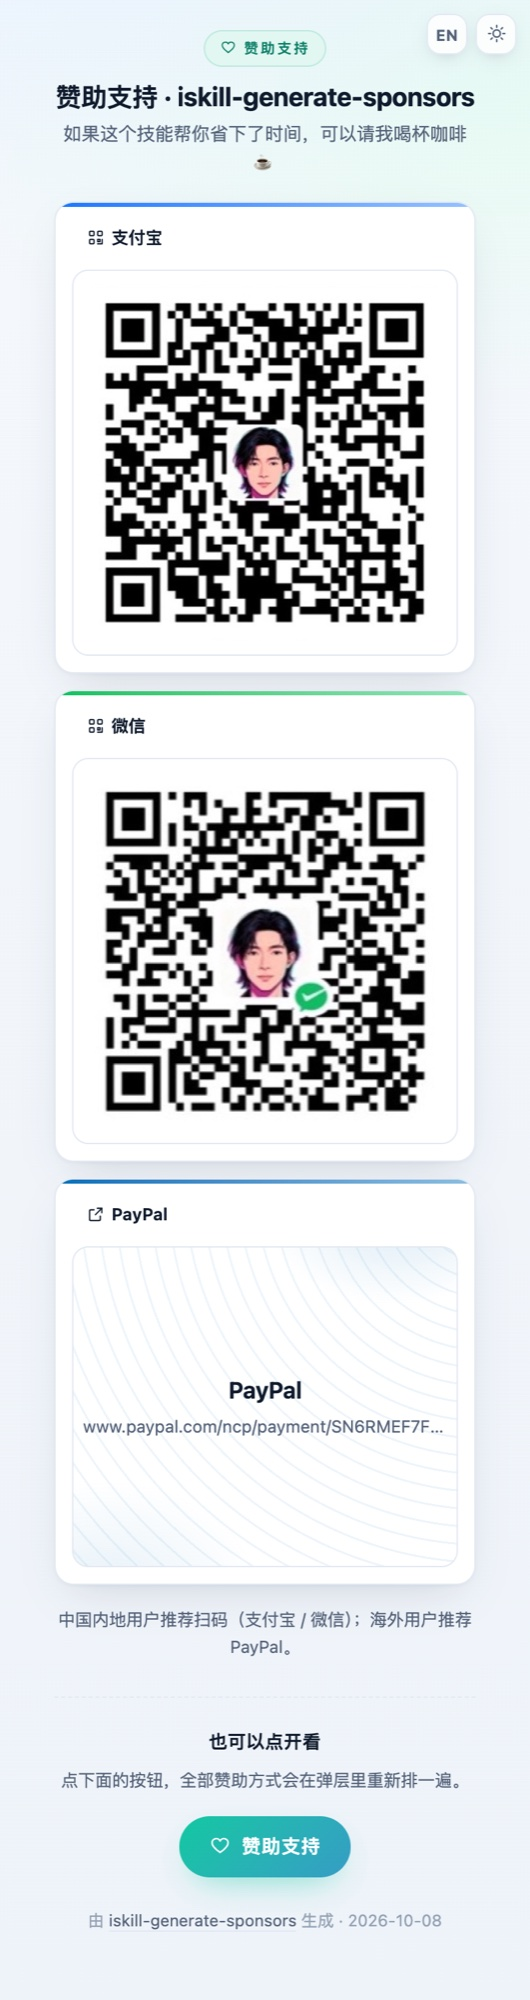
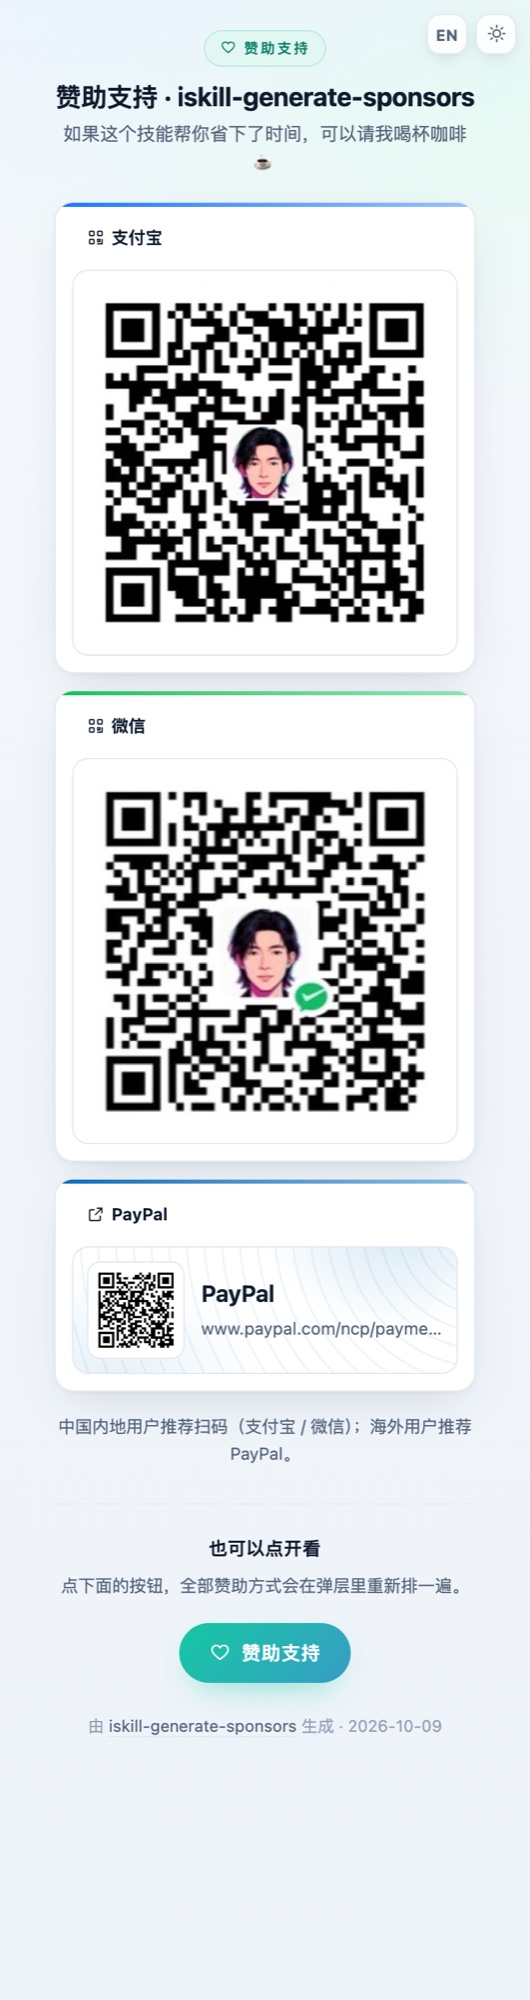
deploy: promo-page @ 2026-10-09 02:43

Changed region(s): [[0.1208, 0.62, 0.8755, 0.961], [0.8151, 0.868, 0.8453, 0.899], [0.1208, 0.868, 0.1509, 0.899]]

diff --git a/sponsors.html b/sponsors.html
@@ -156,8 +156,8 @@ body{
 .link:hover{transform:translateY(-2px);box-shadow:var(--shadow-hi)}
 .link:focus-visible{outline:2px solid var(--accent);outline-offset:2px}
 .link-body{
-  flex:1;min-height:150px;
-  display:flex;flex-direction:column;align-items:center;justify-content:center;gap:3px;
+  flex:1;min-height:0;
+  display:flex;align-items:center;gap:10px;
   /* 纯 CSS 生成式底纹：角落两团品牌色柔光 + 同心细环（guilloché 质感），随渠道 accent 变色 */
   background:
     radial-gradient(140px 100px at 84% -12%, color-mix(in srgb, var(--accent) 15%, transparent), transparent 70%),
@@ -167,10 +167,16 @@ body{
       transparent 1.5px 13px),
     var(--qr-bg);
   border:1px solid var(--qr-line);border-radius:10px;
-  padding:7px;text-align:center;
+  padding:8px;text-align:left;
   /* 容器恒为白底（与码面一致），文字固定深色，不随主题翻转 */
   color:#0f1b2d;
 }
+/* 内嵌二维码 tile：白底独立描边，直接可扫；整卡是 <a>，点它即新窗口跳转 */
+.link-qr{
+  flex:none;width:56px;height:56px;padding:3px;
+  background:#fff;border:1px solid var(--qr-line);border-radius:8px;
+}
+.link-text{flex:1;min-width:0;display:flex;flex-direction:column;gap:2px;justify-content:center}
 .link-name{font-weight:650;font-size:15px}
 .link-sub{font-size:11.5px;color:#55637a;max-width:100%;overflow:hidden;text-overflow:ellipsis;white-space:nowrap}
 .empty{flex-basis:100%;color:var(--ink2);text-align:center}
@@ -247,7 +253,8 @@ body{
   .qr{padding:10px;border-radius:12px}
   .qr img{border-radius:7px}
   .link{padding:12px;border-radius:14px;gap:9px}
-  .link-body{min-height:0;aspect-ratio:6/5;border-radius:12px}
+  .link-body{border-radius:12px;padding:10px;gap:12px}
+  .link-qr{width:72px;height:72px;border-radius:10px;padding:4px}
   .link-name{font-size:17px}
   .link-sub{font-size:12.5px}
   .lightbox{padding:20px}
@@ -305,7 +312,8 @@ body{
   .pop-card .chip svg{width:13px;height:13px}
   .pop-card .qr{padding:10px;border-radius:12px}
   .pop-card .qr img{border-radius:7px}
-  .pop-card .link-body{min-height:0;aspect-ratio:6/5;border-radius:12px}
+  .pop-card .link-body{border-radius:12px;padding:10px;gap:12px}
+  .pop-card .link-qr{width:72px;height:72px;border-radius:10px;padding:4px}
   .pop-card .link-name{font-size:17px}
   .pop-card .link-sub{font-size:12.5px}
 }
@@ -356,8 +364,11 @@ body{
             <span class="chip"><svg viewBox="0 0 24 24" fill="none" stroke="currentColor" stroke-width="1.8" stroke-linecap="round" stroke-linejoin="round"><path d="M14 4h6v6"/><path d="M20 4l-8.5 8.5"/><path d="M18 14.5V19a1.5 1.5 0 0 1-1.5 1.5H5A1.5 1.5 0 0 1 3.5 19V7.5A1.5 1.5 0 0 1 5 6h4.5"/></svg><span>PayPal</span></span>
           </div>
           <span class="link-body">
-            <span class="link-name">PayPal</span>
-            <span class="link-sub">www.paypal.com/ncp/payment/SN6RMEF7FNKU4</span>
[1 lines of base64/hex data omitted]
+            <span class="link-text">
+              <span class="link-name">PayPal</span>
+              <span class="link-sub">www.paypal.com/ncp/payment/SN6RMEF7FNKU4</span>
+            </span>
           </span>
         </a>
   </section>
@@ -375,7 +386,7 @@ body{
     </button>
   </section>
 
-  <footer class="foot" data-slot="foot">由 <a href="https://github.com/aispin/iskill-generate-sponsors" target="_blank" rel="noopener noreferrer">iskill-generate-sponsors</a> 生成 · 2026-10-08</footer>
+  <footer class="foot" data-slot="foot">由 <a href="https://github.com/aispin/iskill-generate-sponsors" target="_blank" rel="noopener noreferrer">iskill-generate-sponsors</a> 生成 · 2026-10-09</footer>
 </main>
 
 <div class="pop" hidden role="dialog" aria-modal="true">
@@ -413,8 +424,11 @@ body{
             <span class="chip"><svg viewBox="0 0 24 24" fill="none" stroke="currentColor" stroke-width="1.8" stroke-linecap="round" stroke-linejoin="round"><path d="M14 4h6v6"/><path d="M20 4l-8.5 8.5"/><path d="M18 14.5V19a1.5 1.5 0 0 1-1.5 1.5H5A1.5 1.5 0 0 1 3.5 19V7.5A1.5 1.5 0 0 1 5 6h4.5"/></svg><span>PayPal</span></span>
           </div>
           <span class="link-body">
-            <span class="link-name">PayPal</span>
-            <span class="link-sub">www.paypal.com/ncp/payment/SN6RMEF7FNKU4</span>
[1 lines of base64/hex data omitted]
+            <span class="link-text">
+              <span class="link-name">PayPal</span>
+              <span class="link-sub">www.paypal.com/ncp/payment/SN6RMEF7FNKU4</span>
+            </span>
           </span>
         </a>
     </section>
@@ -430,7 +444,7 @@ body{
 </div>
 
 <script>
-var SPONSOR = {"defaultLang":"zh","langs":["zh","en"],"title":{"zh":"赞助支持 · iskill-generate-sponsors","en":"Sponsor · iskill-generate-sponsors"},"tagline":{"zh":"如果这个技能帮你省下了时间，可以请我喝杯咖啡 ☕","en":"If this skill saved you some time, you can buy me a coffee ☕"},"note":{"zh":"中国内地用户推荐扫码（支付宝 / 微信）；海外用户推荐 PayPal。","en":"Scan the QR codes if you are in mainland China (Alipay / WeChat); PayPal is easier overseas."},"foot":{"zh":"由 <a href=\"https://github.com/aispin/iskill-generate-sponsors\" target=\"_blank\" rel=\"noopener noreferrer\">iskill-generate-sponsors<\/a> 生成 · 2026-10-08","en":"Generated by <a href=\"https://github.com/aispin/iskill-generate-sponsors\" target=\"_blank\" rel=\"noopener noreferrer\">iskill-generate-sponsors<\/a> · 2026-10-08"},"generatedAt":"2026-10-08","generator":{"name":"iskill-generate-sponsors","url":"https://github.com/aispin/iskill-generate-sponsors"},"ui":{"zh":{"badge":"赞助支持","hint":"点击放大","linksTitle":"其他支持方式","altOf":"{x}收款码","zoomOf":"放大{x}收款码","themeAria":"切换深色 / 浅色","langAria":"切换中文 / English","closeAria":"关闭放大图","popAria":"打开赞助弹窗","popCloseAria":"关闭赞助弹窗","popSecTitle":"也可以点开看","popSecHint":"点下面的按钮，全部赞助方式会在弹层里重新排一遍。","langShort":"EN","empty":"还没有配置外部赞助链接。加一个 <code>--paypal https://paypal.me/你的名字<\/code> 再来一次。"},"en":{"badge":"SPONSOR","hint":"Tap to enlarge","linksTitle":"Other ways to support","altOf":"{x} QR code","zoomOf":"Enlarge the {x} QR code","themeAria":"Toggle dark / light mode","langAria":"Switch between 中文 / English","closeAria":"Close","popAria":"Open sponsor popup","popCloseAria":"Close sponsor popup","popSecTitle":"Prefer a popup?","popSecHint":"Tap the button below to see every option in a focused overlay.","langShort":"中","empty":"No external sponsor links yet. Add one with <code>--paypal https://paypal.me/yourname<\/code>, then re-run."}},"qr":[{"key":"alipay","src":"assets/sponsor/alipay.jpg","accent":"#1677FF","label":{"zh":"支付宝","en":"Alipay"},"tip":{"zh":"打开支付宝「扫一扫」","en":"Scan with Alipay"}},{"key":"wechat","src":"assets/sponsor/wechat.jpg","accent":"#07C160","label":{"zh":"微信","en":"WeChat"},"tip":{"zh":"打开微信「扫一扫」","en":"Scan with WeChat"}}],"links":[{"label":"PayPal","sub":"www.paypal.com/ncp/payment/SN6RMEF7FNKU4","url":"https://www.paypal.com/ncp/payment/SN6RMEF7FNKU4","accent":"#0070BA"}]};
[1 lines of base64/hex data omitted]
 (function () {
   var root = document.documentElement;
   var lb = document.querySelector('.lightbox');

diff --git a/usage.html b/usage.html
@@ -202,7 +202,7 @@ body.wrap-code .view code{white-space:pre-wrap;overflow-wrap:anywhere}
       </button>
     </header>
     <p class="meta">
-      <span data-zh="更新于" data-en="Generated">更新于</span> 2026-10-08 22:04:13
+      <span data-zh="更新于" data-en="Generated">更新于</span> 2026-10-09 02:39:47
       · <span data-zh="图片在" data-en="Images in">图片在</span> <code>.github/sponsor/</code>
       · <span data-zh="公开预览页" data-en="Public page">公开预览页</span> <a href="sponsors.html">sponsors.html</a>
       · <a href="https://github.com/aispin/iskill-generate-sponsors" target="_blank" rel="noopener noreferrer"><span data-zh="GitHub 仓库" data-en="GitHub repo">GitHub 仓库</span> ↗</a>
@@ -396,10 +396,10 @@ export const SPONSOR_DATA = {
     "en": "Scan the QR codes if you are in mainland China (Alipay / WeChat); PayPal is easier overseas."
   },
   "foot": {
-    "zh": "由 &lt;a href=\"https://github.com/aispin/iskill-generate-sponsors\" target=\"_blank\" rel=\"noopener noreferrer\">iskill-generate-sponsors&lt;/a> 生成 · 2026-10-08",
-    "en": "Generated by &lt;a href=\"https://github.com/aispin/iskill-generate-sponsors\" target=\"_blank\" rel=\"noopener noreferrer\">iskill-generate-sponsors&lt;/a> · 2026-10-08"
+    "zh": "由 &lt;a href=\"https://github.com/aispin/iskill-generate-sponsors\" target=\"_blank\" rel=\"noopener noreferrer\">iskill-generate-sponsors&lt;/a> 生成 · 2026-10-09",
+    "en": "Generated by &lt;a href=\"https://github.com/aispin/iskill-generate-sponsors\" target=\"_blank\" rel=\"noopener noreferrer\">iskill-generate-sponsors&lt;/a> · 2026-10-09"
   },
-  "generatedAt": "2026-10-08",
+  "generatedAt": "2026-10-09",
   "generator": {
     "name": "iskill-generate-sponsors",
     "url": "https://github.com/aispin/iskill-generate-sponsors"
@@ -471,7 +471,8 @@ export const SPONSOR_DATA = {
       "label": "PayPal",
       "sub": "www.paypal.com/ncp/payment/SN6RMEF7FNKU4",
       "url": "https://www.paypal.com/ncp/payment/SN6RMEF7FNKU4",
-      "accent": "#0070BA"
+      "accent": "#0070BA",
[1 lines of base64/hex data omitted]
     }
   ]
 };
@@ -612,8 +613,8 @@ const CSS = `
 .sp-1qs5qt .sp-link:hover{transform:translateY(-2px);box-shadow:0 4px 14px -8px rgba(16,32,56,.28)}
 .sp-1qs5qt .sp-link:focus-visible{outline:2px solid var(--sp-accent);outline-offset:2px}
 .sp-1qs5qt .sp-link .sp-link-body{
-  flex:1;min-height:140px;
-  display:flex;flex-direction:column;align-items:center;justify-content:center;gap:3px;
+  flex:1;min-height:0;
+  display:flex;align-items:center;gap:9px;
   /* 纯 CSS 生成式底纹：角落两团品牌色柔光 + 同心细环（guilloché 质感），随渠道 accent 变色 */
   background:
     radial-gradient(130px 95px at 84% -12%, color-mix(in srgb, var(--sp-accent) 15%, transparent), transparent 70%),
@@ -623,10 +624,13 @@ const CSS = `
       transparent 1.5px 13px),
     var(--sp-qr-bg);
   border:1px solid var(--sp-qr-line);border-radius:8px;
-  padding:6px;text-align:center;
+  padding:7px;text-align:left;
   /* 容器恒为白底（与码面一致），文字固定深色，不随主题翻转 */
   color:#0f1b2d;
 }
+/* 内嵌二维码 tile：白底独立描边，直接可扫；整卡是 &lt;a>，点它即新窗口跳转 */
+.sp-1qs5qt .sp-link .sp-link-qr{flex:none;width:56px;height:56px;padding:3px;background:#fff;border:1px solid var(--sp-qr-line);border-radius:7px}
+.sp-1qs5qt .sp-link .sp-link-text{flex:1;min-width:0;display:flex;flex-direction:column;gap:2px;justify-content:center}
 .sp-1qs5qt .sp-link-name{font-weight:650;font-size:14px}
 .sp-1qs5qt .sp-link-sub{font-size:11px;color:#55637a;max-width:100%;overflow:hidden;text-overflow:ellipsis;white-space:nowrap}
 .sp-1qs5qt .sp-empty{flex-basis:100%;color:var(--sp-ink2);text-align:center}
@@ -818,8 +822,11 @@ export default function SponsorCard({
               &lt;span className="sp-chip">&lt;Icon.Link />&lt;span>{l.label}&lt;/span>&lt;/span>
             &lt;/div>
             &lt;span className="sp-link-body">
-              &lt;span className="sp-link-name">{l.label}&lt;/span>
-              &lt;span className="sp-link-sub">{l.sub}&lt;/span>
+              {l.qr ? &lt;img className="sp-link-qr" src={l.qr} alt="" width="56" height="56" loading="lazy" decoding="async" /> : null}
+              &lt;span className="sp-link-text">
+                &lt;span className="sp-link-name">{l.label}&lt;/span>
+                &lt;span className="sp-link-sub">{l.sub}&lt;/span>
+              &lt;/span>
             &lt;/span>
           &lt;/a>
         )) : (
@@ -927,8 +934,11 @@ export default function SponsorCard({
           &lt;span class="sp-chip">&lt;svg viewBox="0 0 24 24" fill="none" stroke="currentColor" stroke-width="1.8" stroke-linecap="round" stroke-linejoin="round">&lt;path d="M14 4h6v6"/>&lt;path d="M20 4l-8.5 8.5"/>&lt;path d="M18 14.5V19a1.5 1.5 0 0 1-1.5 1.5H5A1.5 1.5 0 0 1 3.5 19V7.5A1.5 1.5 0 0 1 5 6h4.5"/>&lt;/svg>&lt;span>{{ l.label }}&lt;/span>&lt;/span>
         &lt;/div>
         &lt;span class="sp-link-body">
-          &lt;span class="sp-link-name">{{ l.label }}&lt;/span>
-          &lt;span class="sp-link-sub">{{ l.sub }}&lt;/span>
+          &lt;img v-if="l.qr" class="sp-link-qr" :src="l.qr" alt="" width="56" height="56" loading="lazy" decoding="async">
+          &lt;span class="sp-link-text">
+            &lt;span class="sp-link-name">{{ l.label }}&lt;/span>
+            &lt;span class="sp-link-sub">{{ l.sub }}&lt;/span>
+          &lt;/span>
         &lt;/span>
       &lt;/a>
       &lt;p v-if="!d.links.length" class="sp-empty" v-html="t.empty">&lt;/p>
@@ -994,10 +1004,10 @@ const SPONSOR_DATA = {
     "en": "Scan the QR codes if you are in mainland China (Alipay / WeChat); PayPal is easier overseas."
   },
   "foot": {
-    "zh": "由 &lt;a href=\"https://github.com/aispin/iskill-generate-sponsors\" target=\"_blank\" rel=\"noopener noreferrer\">iskill-generate-sponsors&lt;/a> 生成 · 2026-10-08",
-    "en": "Generated by &lt;a href=\"https://github.com/aispin/iskill-generate-sponsors\" target=\"_blank\" rel=\"noopener noreferrer\">iskill-generate-sponsors&lt;/a> · 2026-10-08"
+    "zh": "由 &lt;a href=\"https://github.com/aispin/iskill-generate-sponsors\" target=\"_blank\" rel=\"noopener noreferrer\">iskill-generate-sponsors&lt;/a> 生成 · 2026-10-09",
+    "en": "Generated by &lt;a href=\"https://github.com/aispin/iskill-generate-sponsors\" target=\"_blank\" rel=\"noopener noreferrer\">iskill-generate-sponsors&lt;/a> · 2026-10-09"
   },
-  "generatedAt": "2026-10-08",
+  "generatedAt": "2026-10-09",
   "generator": {
     "name": "iskill-generate-sponsors",
     "url": "https://github.com/aispin/iskill-generate-sponsors"
@@ -1069,7 +1079,8 @@ const SPONSOR_DATA = {
       "label": "PayPal",
       "sub": "www.paypal.com/ncp/payment/SN6RMEF7FNKU4",
       "url": "https://www.paypal.com/ncp/payment/SN6RMEF7FNKU4",
-      "accent": "#0070BA"
+      "accent": "#0070BA",
[1 lines of base64/hex data omitted]
     }
   ]
 };
@@ -1271,8 +1282,8 @@ onBeforeUnmount(() => document.removeEventListener('keydown', onKey));
 .sponsor-card .sp-link:hover{transform:translateY(-2px);box-shadow:0 4px 14px -8px rgba(16,32,56,.28)}
 .sponsor-card .sp-link:focus-visible{outline:2px solid var(--sp-accent);outline-offset:2px}
 .sponsor-card .sp-link :deep(.sp-link-body){
-  flex:1;min-height:140px;
-  display:flex;flex-direction:column;align-items:center;justify-content:center;gap:3px;
+  flex:1;min-height:0;
+  display:flex;align-items:center;gap:9px;
   /* 纯 CSS 生成式底纹：角落两团品牌色柔光 + 同心细环（guilloché 质感），随渠道 accent 变色 */
   background:
     radial-gradient(130px 95px at 84% -12%, color-mix(in srgb, var(--sp-accent) 15%, transparent), transparent 70%),
@@ -1282,10 +1293,13 @@ onBeforeUnmount(() => document.removeEventListener('keydown', onKey));
       transparent 1.5px 13px),
     var(--sp-qr-bg);
   border:1px solid var(--sp-qr-line);border-radius:8px;
-  padding:6px;text-align:center;
+  padding:7px;text-align:left;
   /* 容器恒为白底（与码面一致），文字固定深色，不随主题翻转 */
   color:#0f1b2d;
 }
+/* 内嵌二维码 tile：白底独立描边，直接可扫；整卡是 &lt;a>，点它即新窗口跳转 */
+.sponsor-card .sp-link :deep(.sp-link-qr){flex:none;width:56px;height:56px;padding:3px;background:#fff;border:1px solid var(--sp-qr-line);border-radius:7px}
+.sponsor-card .sp-link :deep(.sp-link-text){flex:1;min-width:0;display:flex;flex-direction:column;gap:2px;justify-content:center}
 .sponsor-card .sp-link-name{font-weight:650;font-size:14px}
 .sponsor-card .sp-link-sub{font-size:11px;color:#55637a;max-width:100%;overflow:hidden;text-overflow:ellipsis;white-space:nowrap}
 .sponsor-card .sp-empty{flex-basis:100%;color:var(--sp-ink2);text-align:center}

diff --git a/SponsorCard.vue b/SponsorCard.vue
@@ -61,8 +61,11 @@
           <span class="sp-chip"><svg viewBox="0 0 24 24" fill="none" stroke="currentColor" stroke-width="1.8" stroke-linecap="round" stroke-linejoin="round"><path d="M14 4h6v6"/><path d="M20 4l-8.5 8.5"/><path d="M18 14.5V19a1.5 1.5 0 0 1-1.5 1.5H5A1.5 1.5 0 0 1 3.5 19V7.5A1.5 1.5 0 0 1 5 6h4.5"/></svg><span>{{ l.label }}</span></span>
         </div>
         <span class="sp-link-body">
-          <span class="sp-link-name">{{ l.label }}</span>
-          <span class="sp-link-sub">{{ l.sub }}</span>
+          <img v-if="l.qr" class="sp-link-qr" :src="l.qr" alt="" width="56" height="56" loading="lazy" decoding="async">
+          <span class="sp-link-text">
+            <span class="sp-link-name">{{ l.label }}</span>
+            <span class="sp-link-sub">{{ l.sub }}</span>
+          </span>
         </span>
       </a>
       <p v-if="!d.links.length" class="sp-empty" v-html="t.empty"></p>
@@ -128,10 +131,10 @@ const SPONSOR_DATA = {
     "en": "Scan the QR codes if you are in mainland China (Alipay / WeChat); PayPal is easier overseas."
   },
   "foot": {
-    "zh": "由 <a href=\"https://github.com/aispin/iskill-generate-sponsors\" target=\"_blank\" rel=\"noopener noreferrer\">iskill-generate-sponsors</a> 生成 · 2026-10-08",
-    "en": "Generated by <a href=\"https://github.com/aispin/iskill-generate-sponsors\" target=\"_blank\" rel=\"noopener noreferrer\">iskill-generate-sponsors</a> · 2026-10-08"
+    "zh": "由 <a href=\"https://github.com/aispin/iskill-generate-sponsors\" target=\"_blank\" rel=\"noopener noreferrer\">iskill-generate-sponsors</a> 生成 · 2026-10-09",
+    "en": "Generated by <a href=\"https://github.com/aispin/iskill-generate-sponsors\" target=\"_blank\" rel=\"noopener noreferrer\">iskill-generate-sponsors</a> · 2026-10-09"
   },
-  "generatedAt": "2026-10-08",
+  "generatedAt": "2026-10-09",
   "generator": {
     "name": "iskill-generate-sponsors",
     "url": "https://github.com/aispin/iskill-generate-sponsors"
@@ -203,7 +206,8 @@ const SPONSOR_DATA = {
       "label": "PayPal",
       "sub": "www.paypal.com/ncp/payment/SN6RMEF7FNKU4",
       "url": "https://www.paypal.com/ncp/payment/SN6RMEF7FNKU4",
-      "accent": "#0070BA"
+      "accent": "#0070BA",
[1 lines of base64/hex data omitted]
     }
   ]
 };
@@ -405,8 +409,8 @@ onBeforeUnmount(() => document.removeEventListener('keydown', onKey));
 .sponsor-card .sp-link:hover{transform:translateY(-2px);box-shadow:0 4px 14px -8px rgba(16,32,56,.28)}
 .sponsor-card .sp-link:focus-visible{outline:2px solid var(--sp-accent);outline-offset:2px}
 .sponsor-card .sp-link :deep(.sp-link-body){
-  flex:1;min-height:140px;
-  display:flex;flex-direction:column;align-items:center;justify-content:center;gap:3px;
+  flex:1;min-height:0;
+  display:flex;align-items:center;gap:9px;
   /* 纯 CSS 生成式底纹：角落两团品牌色柔光 + 同心细环（guilloché 质感），随渠道 accent 变色 */
   background:
     radial-gradient(130px 95px at 84% -12%, color-mix(in srgb, var(--sp-accent) 15%, transparent), transparent 70%),
@@ -416,10 +420,13 @@ onBeforeUnmount(() => document.removeEventListener('keydown', onKey));
       transparent 1.5px 13px),
     var(--sp-qr-bg);
   border:1px solid var(--sp-qr-line);border-radius:8px;
-  padding:6px;text-align:center;
+  padding:7px;text-align:left;
   /* 容器恒为白底（与码面一致），文字固定深色，不随主题翻转 */
   color:#0f1b2d;
 }
+/* 内嵌二维码 tile：白底独立描边，直接可扫；整卡是 <a>，点它即新窗口跳转 */
+.sponsor-card .sp-link :deep(.sp-link-qr){flex:none;width:56px;height:56px;padding:3px;background:#fff;border:1px solid var(--sp-qr-line);border-radius:7px}
+.sponsor-card .sp-link :deep(.sp-link-text){flex:1;min-width:0;display:flex;flex-direction:column;gap:2px;justify-content:center}
 .sponsor-card .sp-link-name{font-weight:650;font-size:14px}
 .sponsor-card .sp-link-sub{font-size:11px;color:#55637a;max-width:100%;overflow:hidden;text-overflow:ellipsis;white-space:nowrap}
 .sponsor-card .sp-empty{flex-basis:100%;color:var(--sp-ink2);text-align:center}

diff --git a/SponsorCard.jsx b/SponsorCard.jsx
@@ -34,10 +34,10 @@ export const SPONSOR_DATA = {
     "en": "Scan the QR codes if you are in mainland China (Alipay / WeChat); PayPal is easier overseas."
   },
   "foot": {
-    "zh": "由 <a href=\"https://github.com/aispin/iskill-generate-sponsors\" target=\"_blank\" rel=\"noopener noreferrer\">iskill-generate-sponsors</a> 生成 · 2026-10-08",
-    "en": "Generated by <a href=\"https://github.com/aispin/iskill-generate-sponsors\" target=\"_blank\" rel=\"noopener noreferrer\">iskill-generate-sponsors</a> · 2026-10-08"
+    "zh": "由 <a href=\"https://github.com/aispin/iskill-generate-sponsors\" target=\"_blank\" rel=\"noopener noreferrer\">iskill-generate-sponsors</a> 生成 · 2026-10-09",
+    "en": "Generated by <a href=\"https://github.com/aispin/iskill-generate-sponsors\" target=\"_blank\" rel=\"noopener noreferrer\">iskill-generate-sponsors</a> · 2026-10-09"
   },
-  "generatedAt": "2026-10-08",
+  "generatedAt": "2026-10-09",
   "generator": {
     "name": "iskill-generate-sponsors",
     "url": "https://github.com/aispin/iskill-generate-sponsors"
@@ -109,7 +109,8 @@ export const SPONSOR_DATA = {
       "label": "PayPal",
       "sub": "www.paypal.com/ncp/payment/SN6RMEF7FNKU4",
       "url": "https://www.paypal.com/ncp/payment/SN6RMEF7FNKU4",
-      "accent": "#0070BA"
+      "accent": "#0070BA",
[1 lines of base64/hex data omitted]
     }
   ]
 };
@@ -250,8 +251,8 @@ const CSS = `
 .sp-1qs5qt .sp-link:hover{transform:translateY(-2px);box-shadow:0 4px 14px -8px rgba(16,32,56,.28)}
 .sp-1qs5qt .sp-link:focus-visible{outline:2px solid var(--sp-accent);outline-offset:2px}
 .sp-1qs5qt .sp-link .sp-link-body{
-  flex:1;min-height:140px;
-  display:flex;flex-direction:column;align-items:center;justify-content:center;gap:3px;
+  flex:1;min-height:0;
+  display:flex;align-items:center;gap:9px;
   /* 纯 CSS 生成式底纹：角落两团品牌色柔光 + 同心细环（guilloché 质感），随渠道 accent 变色 */
   background:
     radial-gradient(130px 95px at 84% -12%, color-mix(in srgb, var(--sp-accent) 15%, transparent), transparent 70%),
@@ -261,10 +262,13 @@ const CSS = `
       transparent 1.5px 13px),
     var(--sp-qr-bg);
   border:1px solid var(--sp-qr-line);border-radius:8px;
-  padding:6px;text-align:center;
+  padding:7px;text-align:left;
   /* 容器恒为白底（与码面一致），文字固定深色，不随主题翻转 */
   color:#0f1b2d;
 }
+/* 内嵌二维码 tile：白底独立描边，直接可扫；整卡是 <a>，点它即新窗口跳转 */
+.sp-1qs5qt .sp-link .sp-link-qr{flex:none;width:56px;height:56px;padding:3px;background:#fff;border:1px solid var(--sp-qr-line);border-radius:7px}
+.sp-1qs5qt .sp-link .sp-link-text{flex:1;min-width:0;display:flex;flex-direction:column;gap:2px;justify-content:center}
 .sp-1qs5qt .sp-link-name{font-weight:650;font-size:14px}
 .sp-1qs5qt .sp-link-sub{font-size:11px;color:#55637a;max-width:100%;overflow:hidden;text-overflow:ellipsis;white-space:nowrap}
 .sp-1qs5qt .sp-empty{flex-basis:100%;color:var(--sp-ink2);text-align:center}
@@ -456,8 +460,11 @@ export default function SponsorCard({
               <span className="sp-chip"><Icon.Link /><span>{l.label}</span></span>
             </div>
             <span className="sp-link-body">
-              <span className="sp-link-name">{l.label}</span>
-              <span className="sp-link-sub">{l.sub}</span>
+              {l.qr ? <img className="sp-link-qr" src={l.qr} alt="" width="56" height="56" loading="lazy" decoding="async" /> : null}
+              <span className="sp-link-text">
+                <span className="sp-link-name">{l.label}</span>
+                <span className="sp-link-sub">{l.sub}</span>
+              </span>
             </span>
           </a>
         )) : (
